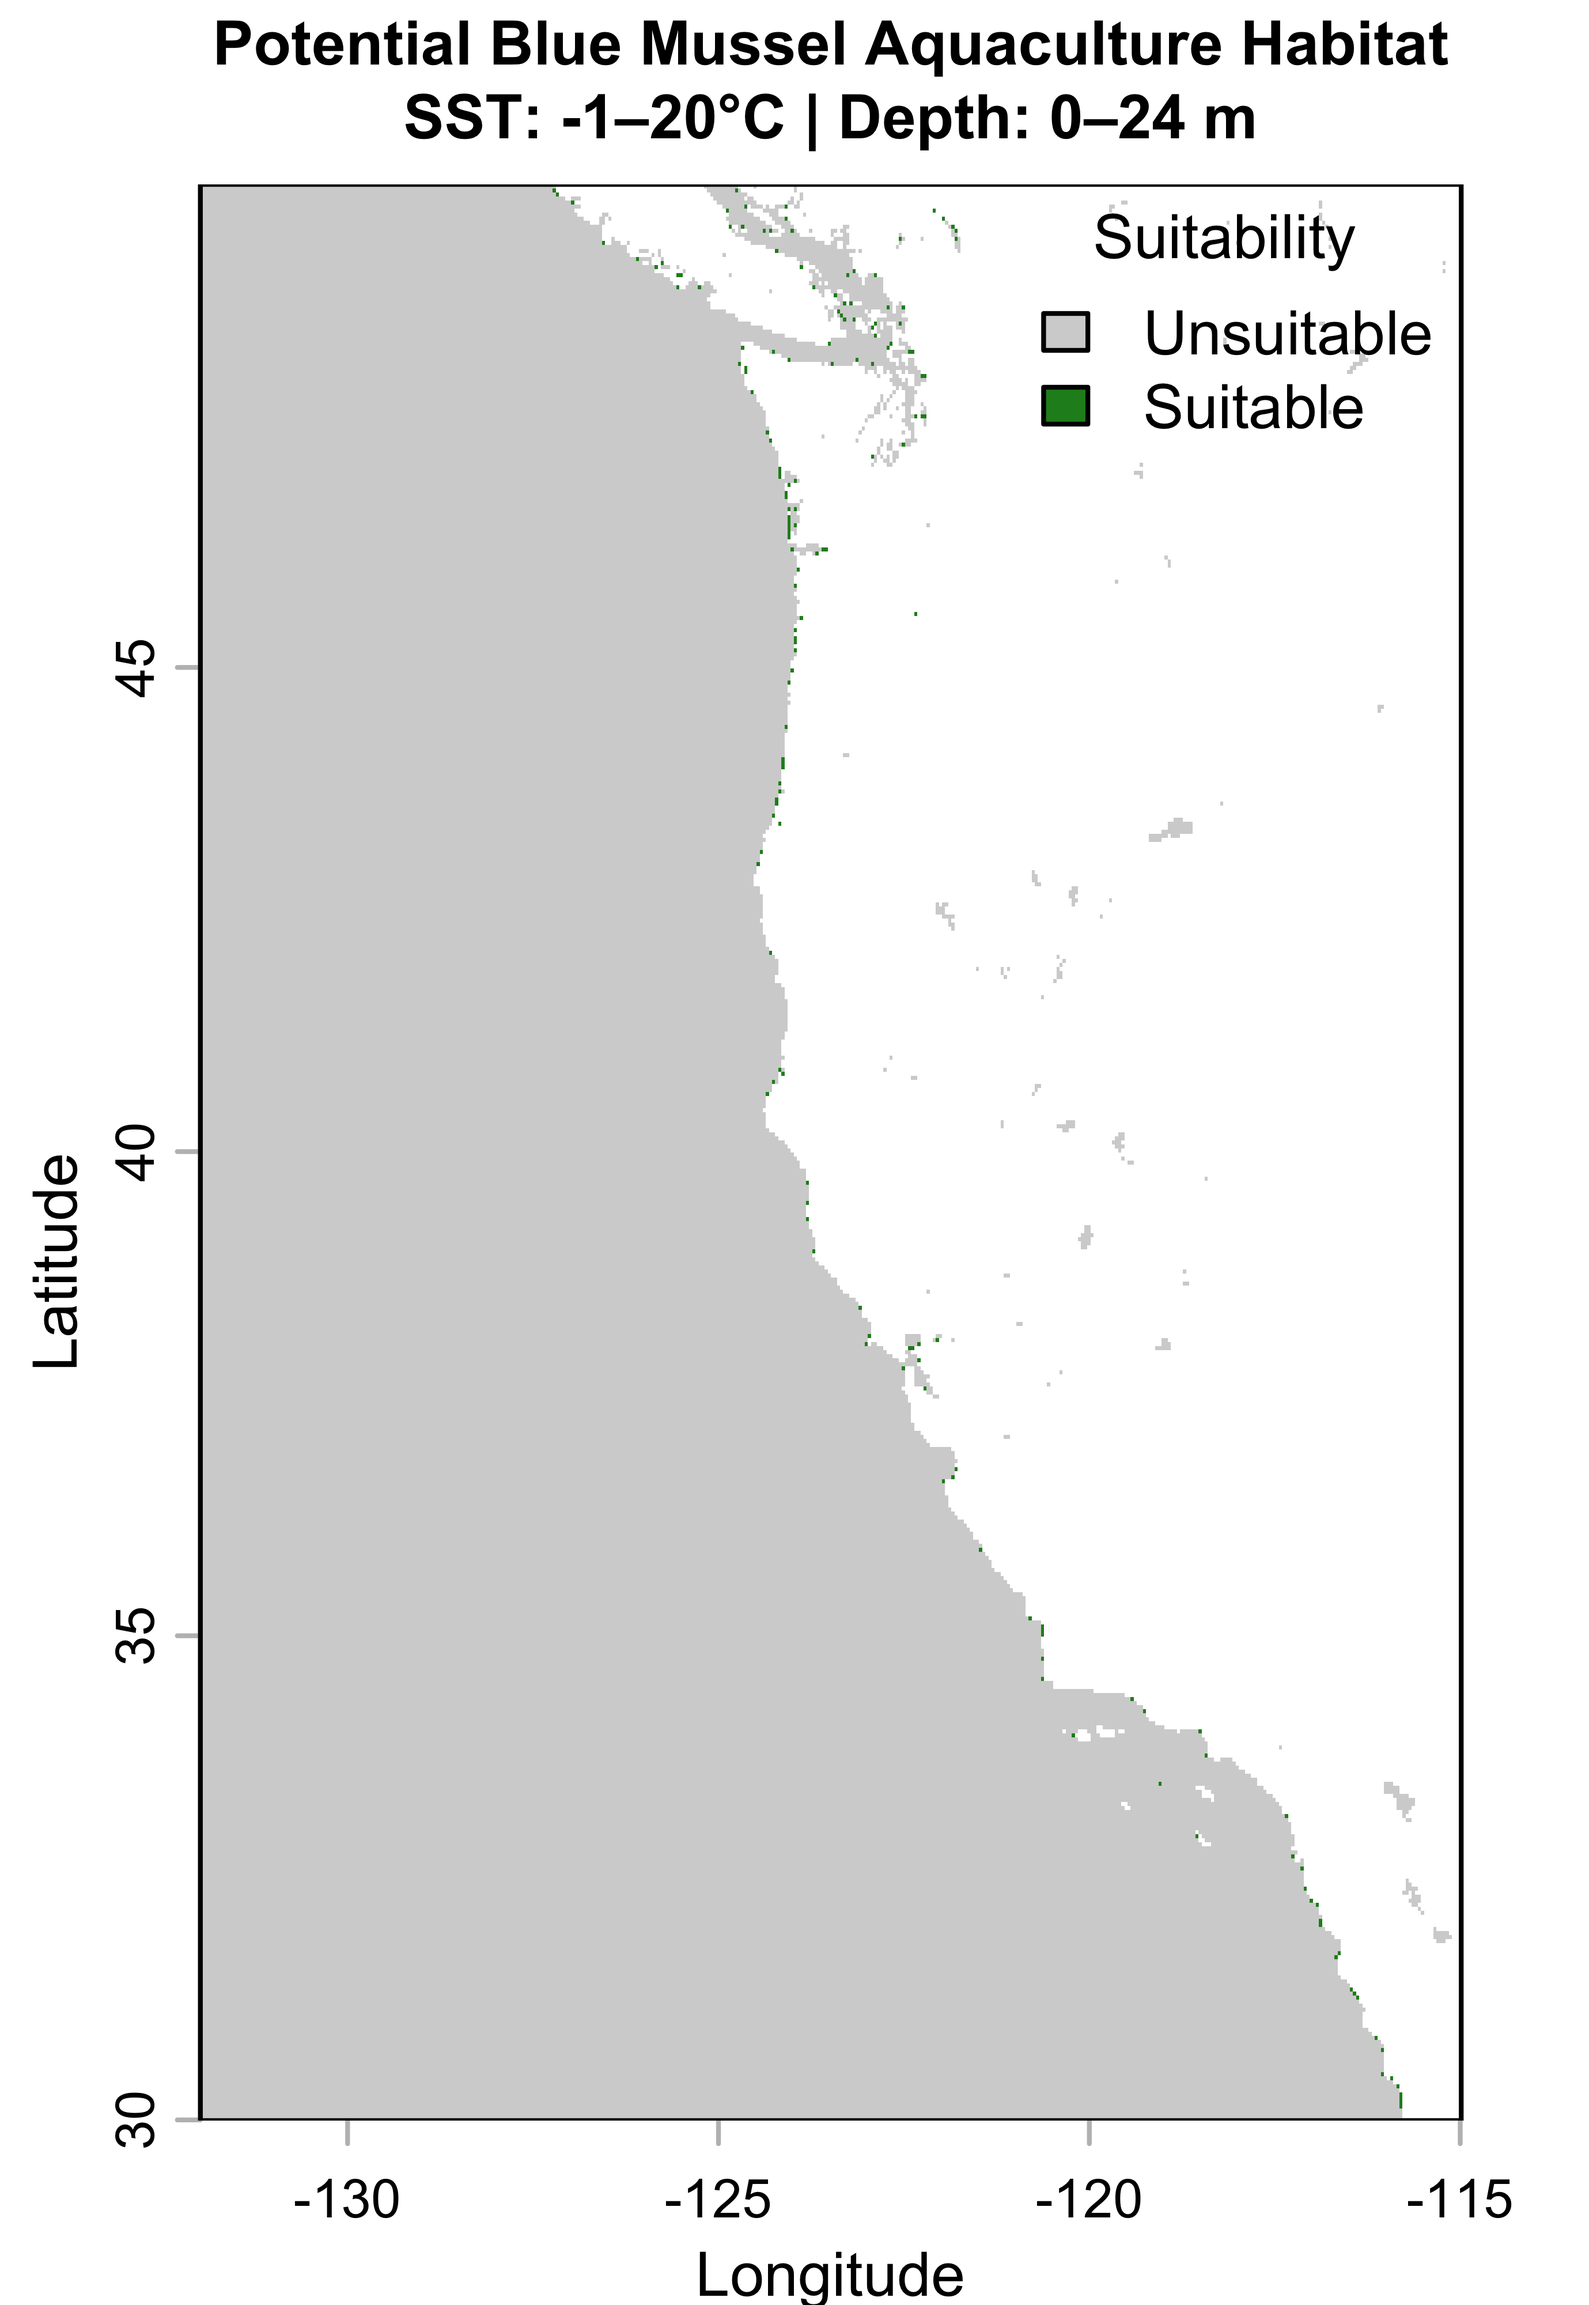
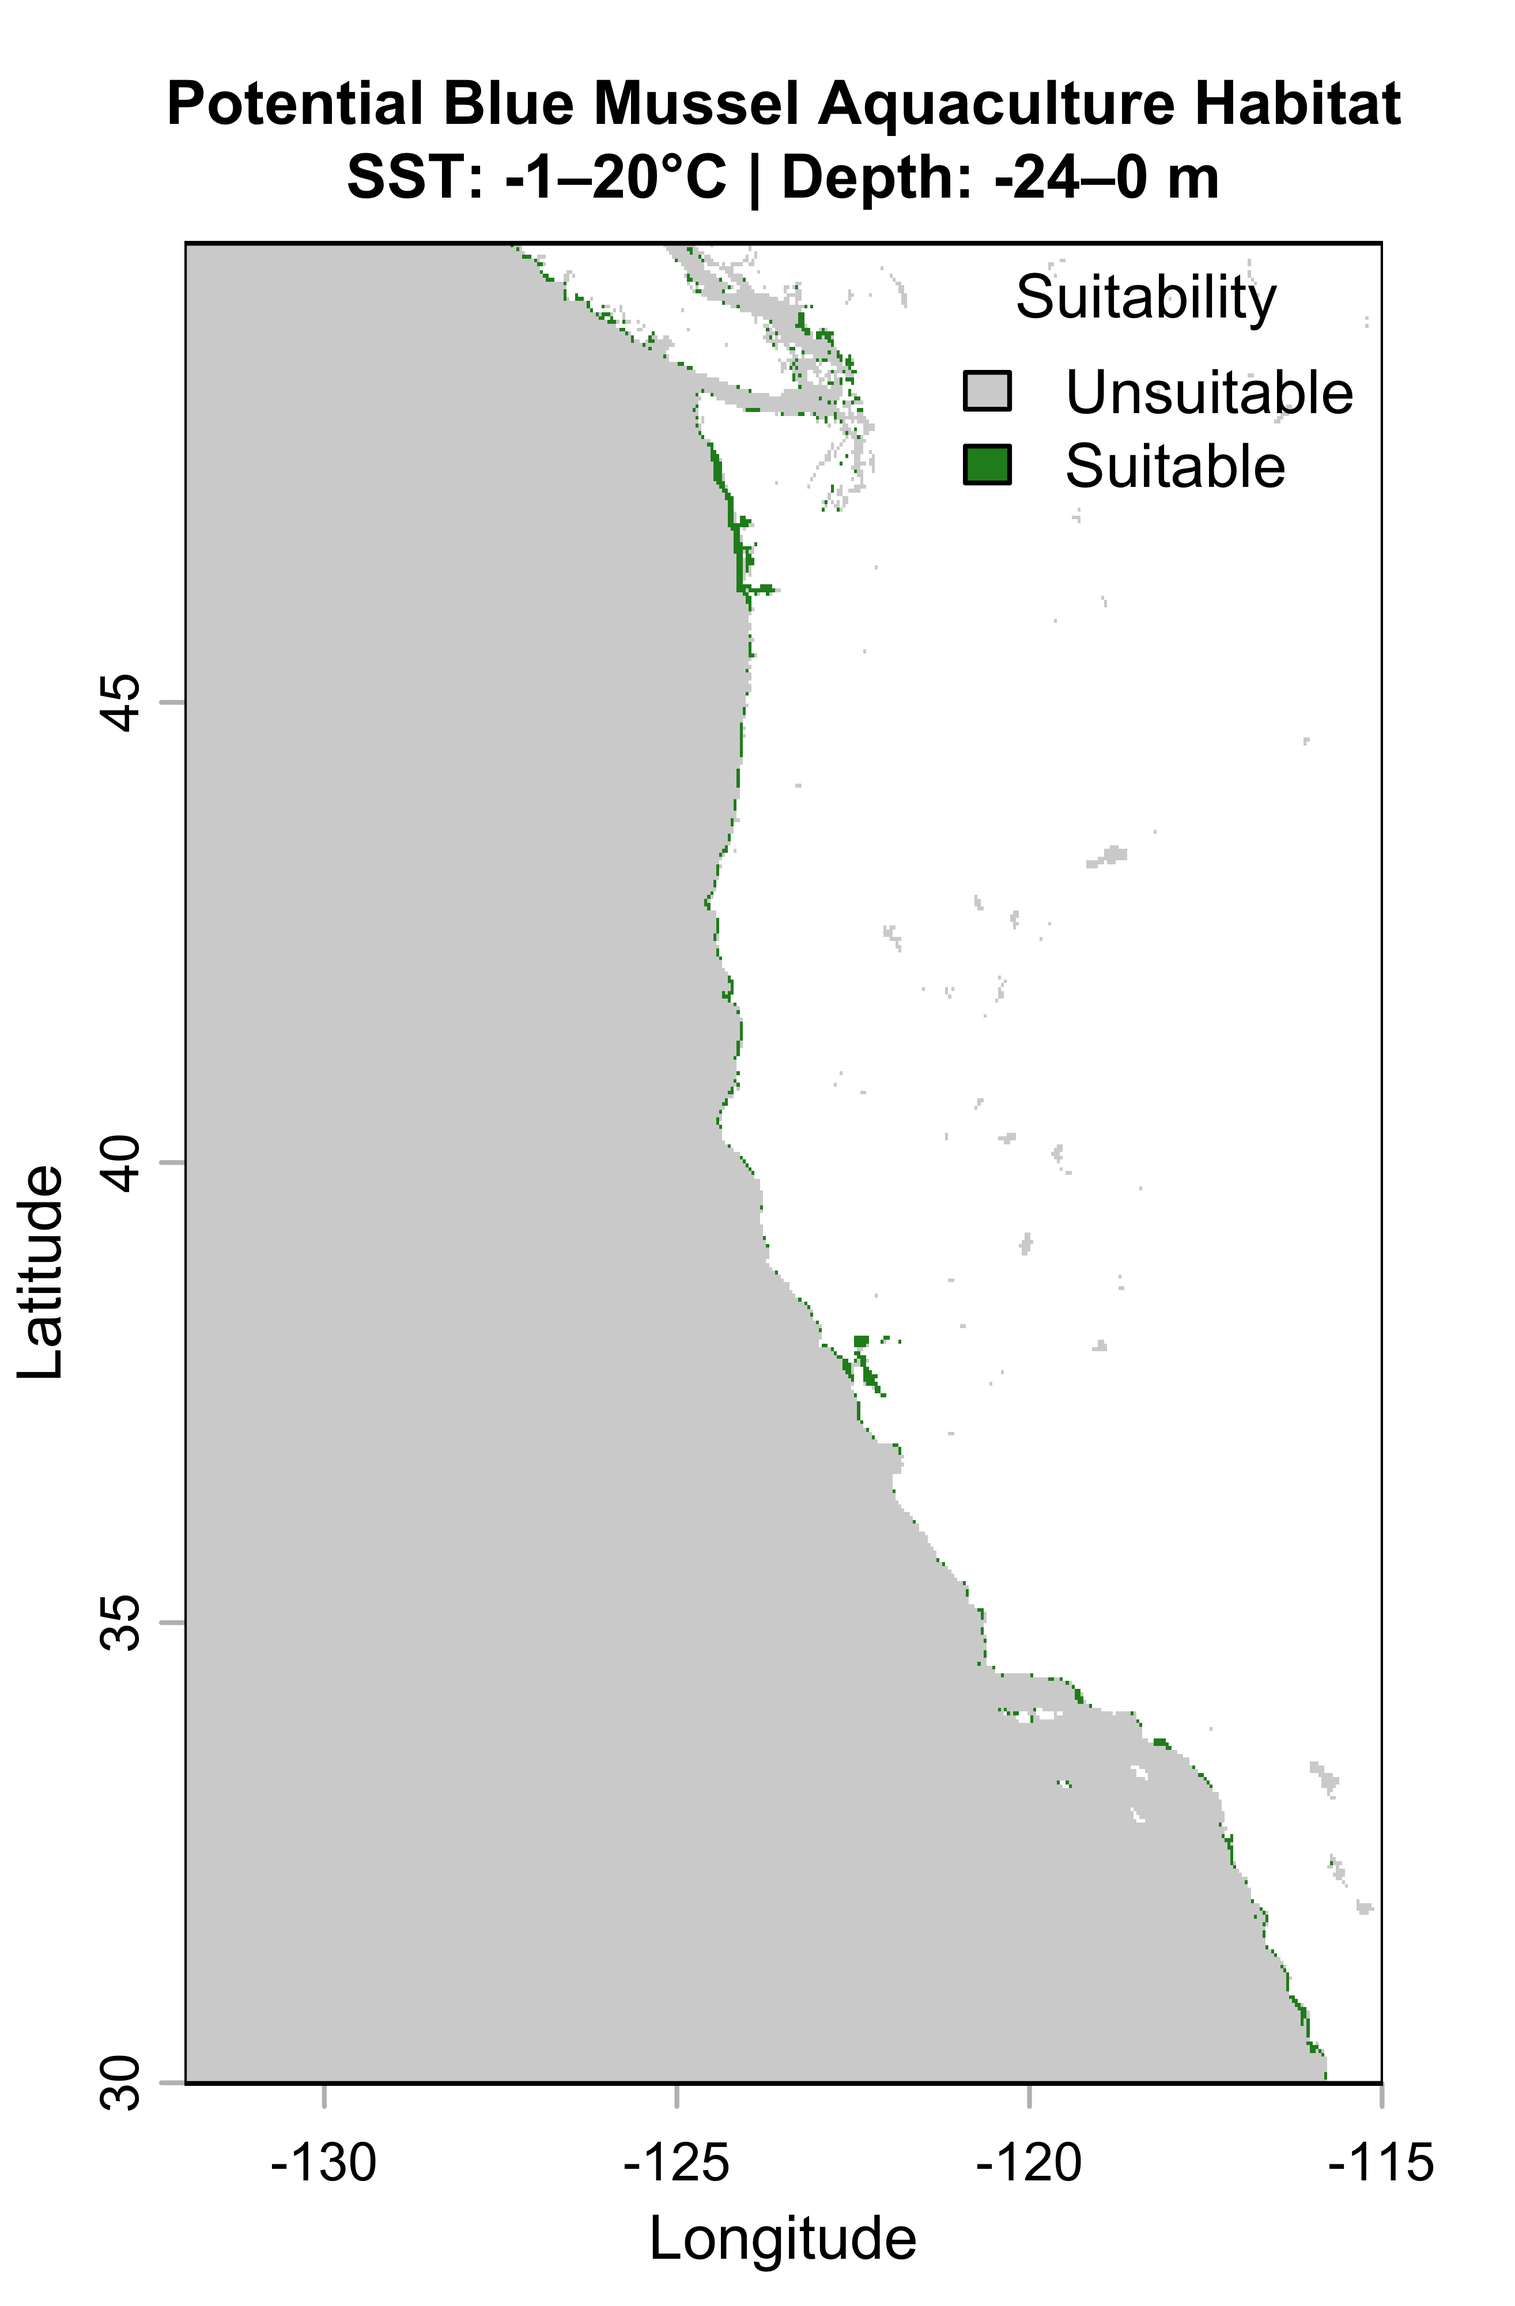
Update Images

diff --git a/app/blog/aquaculture/page.tsx b/app/blog/aquaculture/page.tsx
@@ -226,16 +226,13 @@ eez_raster <- vect(here("data", "wc_regions_clean.shp"))`,
 # Convert from Kelvin to Celsius
 mean_sst <- mean_sst - 273.15
 
-# Change Margins on top and bottom
-par(oma = c(1, 0, 3, 0))
-
 # Create an informative plot of mean SST
 plot(mean_sst,
      main = "Mean Sea Surface Temperature \\n(2008-2012)",
      col = hcl.colors(40, "RdYlBu", rev = TRUE),
      xlab = "Longitude",
      ylab = "Latitude",
-     cex.main = 1.0,
+     cex.main = 0.9,
      plg = list(title = "SST (°C)"))`,
 
     // 3: Depth Data Preparation
@@ -243,13 +240,14 @@ plot(mean_sst,
 depth <- resample(depth, mean_sst, method = "near")
 
 # Crop raster to match SST
-depth_cropped <- crop(depth, mean_sst)
+depth_cropped<- crop(depth, mean_sst)
 
 # check that the depth and SST match in resolution, extent, and coordinate reference system
 compareGeom(depth_cropped, mean_sst, res = TRUE, ext = TRUE, crs = TRUE)
 
 # Verify alignment of datasets
 alignment_check <- compareGeom(depth_cropped, mean_sst, res = TRUE, ext = TRUE, crs = TRUE)
+
 
 if (!alignment_check) {
   stop(
@@ -275,9 +273,6 @@ find_suitable_habitat <- function(temp_min, temp_max, depth_min, depth_max, spec
   suitable_habitat <- as.factor(suitable_habitat)
   levels(suitable_habitat) <- c("Unsuitable", "Suitable")
   
-  # Create informative plot
-  par(oma = c(1, 1, 1.5, 1))
-  
   plot(suitable_habitat,
        col = c("#D3D3D3", "#228B22"),
        type = "classes",
@@ -287,7 +282,7 @@ find_suitable_habitat <- function(temp_min, temp_max, depth_min, depth_max, spec
        axes = TRUE,
        cex.main = 0.8,
        plg = list(x = "topright", title = "Suitability"))
-  
+
   # Return the raster
   return(suitable_habitat)
 }`,
@@ -297,8 +292,8 @@ find_suitable_habitat <- function(temp_min, temp_max, depth_min, depth_max, spec
 oyster_habitat <- find_suitable_habitat(
   temp_min = 11,
   temp_max = 30,
-  depth_min = 0,
-  depth_max = 70,
+  depth_min = -70,
+  depth_max = 0,
   species_name = "Oyster"
 )`,
 
@@ -307,13 +302,13 @@ oyster_habitat <- find_suitable_habitat(
 mussel_habitat <- find_suitable_habitat(
   temp_min = -1,
   temp_max = 20,
-  depth_min = 0,
-  depth_max = 24,
+  depth_min = -24,
+  depth_max = 0,
   species_name = "Blue Mussel"
 )`,
 
     // 7: Total Habitable Areas Function
-    `# Returns a data frame of the area suitable for a species by region
+    `# Returns a data frame of the area suitable fora species by region
 total_habitable_areas <- function(temp_min, temp_max, depth_min, depth_max, species_name){
   
   # Create suitability masks
@@ -342,16 +337,16 @@ total_habitable_areas <- function(temp_min, temp_max, depth_min, depth_max, spec
 oyster_area <- total_habitable_areas(
   temp_min = 11,
   temp_max = 30,
-  depth_min = 0,
-  depth_max = 70,
+  depth_min = -70,
+  depth_max = 0,
   species_name = "Oyster") %>% 
   rename("Oysters" = area)
 
 mussel_area <- total_habitable_areas(  
   temp_min = -1,
   temp_max = 20,
-  depth_min = 0,
-  depth_max = 24,
+  depth_min = -24,
+  depth_max = 0,
   species_name = "Blue Mussel") %>%
   rename("Blue Mussle" = area)
 
@@ -377,11 +372,11 @@ habitat_summary`,
   const habitatSummaryData = {
     headers: ["Region", "Oysters (km²)", "Blue Mussels (km²)"],
     rows: [
-      ["Central California", "103.50", "120.89"],
-      ["Northern California", "32.67", "33.36"],
-      ["Oregon", "30.11", "76.65"],
-      ["Southern California", "160.53", "124.68"],
-      ["Washington", "131.35", "260.91"],
+      ["Central California", "4940.04", "1533.94"],
+      ["Northern California", "454.30", "748.67"],
+      ["Oregon", "1578.97", "1181.82"],
+      ["Southern California", "4221.39", "1140.71"],
+      ["Washington", "3313.16", "2878.92"],
     ],
   };
 
@@ -464,24 +459,8 @@ habitat_summary`,
             <p className="text-lg font-semibold text-teal-700 mb-4">
               In this analysis, we identified areas along the west coast of the
               United States which contained suitable depth and sea surface
-              temperature (SST) for aquaculture, specifically for two species:
+              temperature (SST) for aquaculture, specifically on two species:
               oysters and blue mussels.
-            </p>
-
-            <p>
-              Marine aquaculture plays an increasingly important role in meeting
-              global seafood demand while potentially reducing pressure on wild
-              fish populations. The success of aquaculture operations depends
-              critically on environmental conditions, particularly water
-              temperature and depth, which vary substantially along the US West
-              Coast.
-            </p>
-
-            <p>
-              This analysis uses geospatial data to identify regions within the
-              Exclusive Economic Zones (EEZs) of California, Oregon, and
-              Washington that meet the environmental requirements for oyster and
-              blue mussel cultivation.
             </p>
 
             {/* ================= DATASETS ================= */}
@@ -501,9 +480,9 @@ habitat_summary`,
                     NOAA Pathfinder Sea Surface Temperature Data
                   </a>
                 </strong>
-                : Five-year average of sea surface temperature data from
-                2008-2012, providing a baseline for temperature analysis along
-                the western US coast.
+                : Data from this is used to find the five-year average of sea
+                surface temperature data from 2008-2012, providing a baseline
+                for temperature analysis along the western US coast.
               </li>
               <li>
                 <strong>
@@ -726,11 +705,10 @@ habitat_summary`,
 
             <p>
               <strong>Interpretation:</strong> This map shows that suitable
-              areas are concentrated along the coast of Southern California and
-              in Washington. Concentration is low along the coast of Northern
-              California and Oregon. The cooler waters of Oregon and Washington
-              limit suitable habitat primarily to nearshore areas where depths
-              fall within the required range.
+              areas are concentrated along the coast of Southern and Central
+              California, with a large area also being present in Washington.
+              Oregon and North California appear to have significantly smaller
+              amounts of suitable area.
             </p>
 
             {/* ================= MUSSEL HABITAT ================= */}
@@ -772,6 +750,13 @@ habitat_summary`,
               </div>
             </div>
 
+            <p>
+              <strong>Interpretation:</strong> This map shows that suitable
+              areas are primarily found within Washington, with a large cluster
+              also being present in the Bay area. Outside of that, mussels
+              appear to have a much smaller amount of suitable area in
+              comparison to Oysters overall.
+            </p>
             {/* ================= REGIONAL ANALYSIS ================= */}
             <h2 className="text-3xl font-bold text-gray-900 mt-12 mb-4">
               Regional Analysis of Suitable Habitat
@@ -830,24 +815,32 @@ habitat_summary`,
             <ol className="list-decimal pl-6 space-y-3 mb-6">
               <li>
                 <strong>Washington</strong> has the most suitable habitat for
-                blue mussels (260.91 km²), which is more than double all of the
-                other regions. This is likely caused by the cold waters of the
-                state and large amount of shallow water found in regions like
-                the Puget Sound.
+                blue mussels (2878.92 km²), which is more than a thousand higher
+                than the next highest region. This is likely caused by the cold
+                waters of the state and large amount of shallow water found in
+                regions like the Puget Sound.
               </li>
               <li>
-                <strong>Southern California</strong> leads in oyster habitat
-                suitability (160.53 km²), likely due to their warmer waters.
+                <strong>Central California</strong> leads in oyster habitat
+                suitability (1578.97 km²), likely due to their warmer waters. In
+                this region there is a significant disparity between suitable
+                oyster habitat and mussel habitat.
               </li>
               <li>
-                <strong>Oregon</strong> shows a strong preference for mussels
-                over oysters (76.65 km² vs. 30.11 km²), which is expected due to
-                its cooler waters.
+                <strong>Oregon</strong> shows a slight preference for mussels
+                over oysters (76.65 km² vs. 1181.82 km²), which could be caused
+                by it&apos;s slightly cooler waters or a limited amount of
+                shallow areas.
               </li>
               <li>
-                <strong>Central California</strong> shows relatively low
-                suitability for both species. It is unclear if this is caused by
-                the temperature range or a lack of shallow waters.
+                <strong>Southern California</strong> shows high suitability for
+                oysters (4221.39 km²) with below average suitability for
+                mussels.
+              </li>
+              <li>
+                <strong>Northern California</strong> seems to be rather
+                unaccommodating for both species, though mussels are somewhat
+                favored.
               </li>
             </ol>
 
@@ -857,13 +850,23 @@ habitat_summary`,
             </h3>
 
             <p>
-              Although the West Coast appears to have a larger total area suited
-              to blue mussels, oyster farming currently dominates every region.
-              This mismatch between environmental suitability and current
-              industry patterns may indicate{" "}
-              <strong>untapped potential for blue mussel aquaculture</strong>,
-              particularly in Washington and Oregon where there is a
-              significantly larger area suitable for mussels than oysters.
+              While oyster farming currently dominates all regions, the results
+              of this analysis suggest this may not entirely align with
+              maximizing the environment&apos;s potential for aquaculture.
+              Specifically, Central and Southern California&apos;s substantial
+              oyster-suitable areas (4,940 km² and 4,221 km² respectively)
+              support continued industry focus on oysters in these regions.
+              However, Northern California presents a compelling case for blue
+              mussel expansion, as mussel-suitable habitat (749 km²) actually
+              exceeds oyster-suitable area (454 km²), which is not reflected in
+              current farming practices. Additionally, Washington and Oregon
+              have much closer margins in suitable areas between the two
+              species, which could be worth investigating for aquaculture
+              diversification. Overall, more analysis should be done to
+              determine the extent to which these suitable areas overlap, and
+              whether other parameters such as local infrastructure, market
+              access, regulatory frameworks, or additional environmental factors
+              may affect habitat suitability and commercial viability.
             </p>
 
             {/* ================= LIMITATIONS ================= */}
@@ -888,7 +891,7 @@ habitat_summary`,
               <li>
                 <strong>Environmental factors not considered</strong>: Important
                 variables such as acidity, tidal patterns, wave exposure, and El
-                Niño events were not included in the analysis.
+                Nino events were not included in the analysis.
               </li>
               <li>
                 <strong>Socioeconomic and Regulatory Constraints</strong>:
@@ -899,14 +902,14 @@ habitat_summary`,
 
             {/* ================= FUTURE RESEARCH ================= */}
             <h2 className="text-3xl font-bold text-gray-900 mt-12 mb-4">
-              Future Research
+              Future research
             </h2>
 
             <p>
-              In addition to addressing the above limitations, future research
+              In addition to adressing the above limitation, future research
               should investigate the economic viability of establishing mussel
               production in areas identified as suitable. Additionally, climate
-              forecasts should be included in the analysis to see if sites are
+              forecast should be included in the analysis to see if sites are
               likely to remain suitable in the future.
             </p>
 
